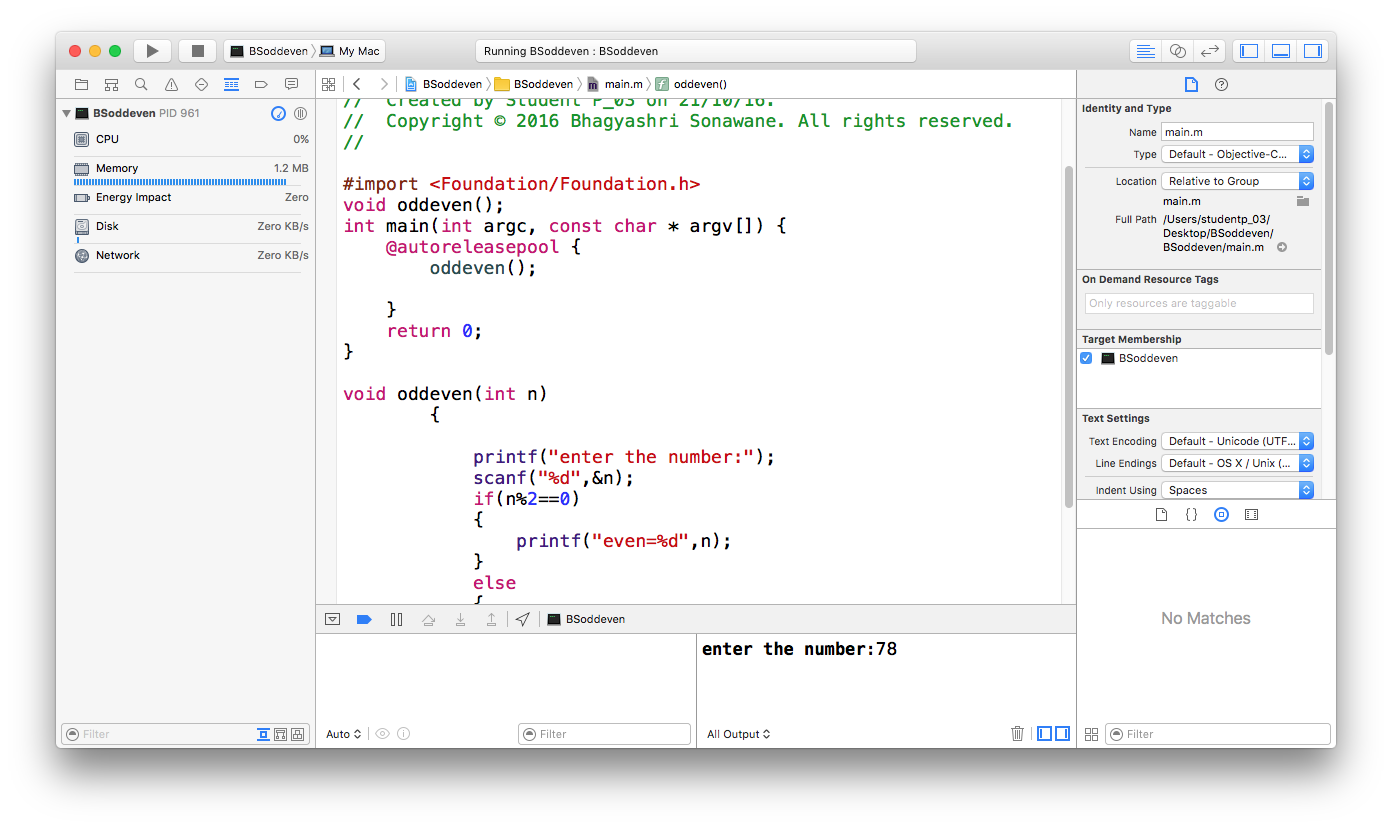
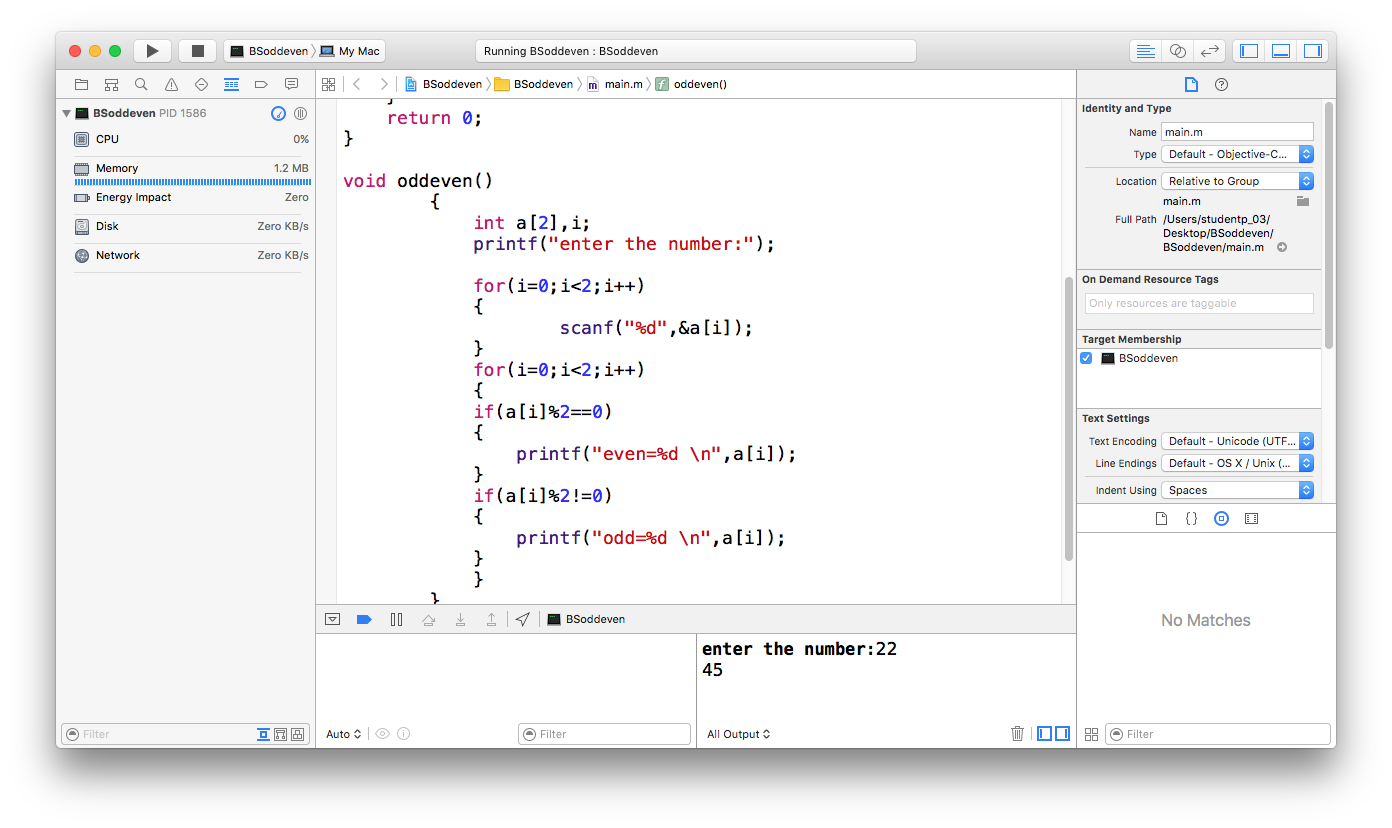
Initial commit

diff --git a/BSoddeven/main.m b/BSoddeven/main.m
@@ -16,18 +16,25 @@ int main(int argc, const char * argv[]) {
     return 0;
 }
 
-void oddeven(int n)
-        { 
-        
+void oddeven()
+        {
+            int a[2],i;
             printf("enter the number:");
-            scanf("%d",&n);
-            if(n%2==0)
+
+            for(i=0;i<2;i++)
             {
-                printf("even=%d",n);
+                    scanf("%d",&a[i]);
             }
-            else
+            for(i=0;i<2;i++)
             {
-                printf("odd=%d",n);
+            if(a[i]%2==0)
+            {
+                printf("even=%d \n",a[i]);
+            }
+            if(a[i]%2!=0)
+            {
+                printf("odd=%d \n",a[i]);
+            }
             }
         }
         
